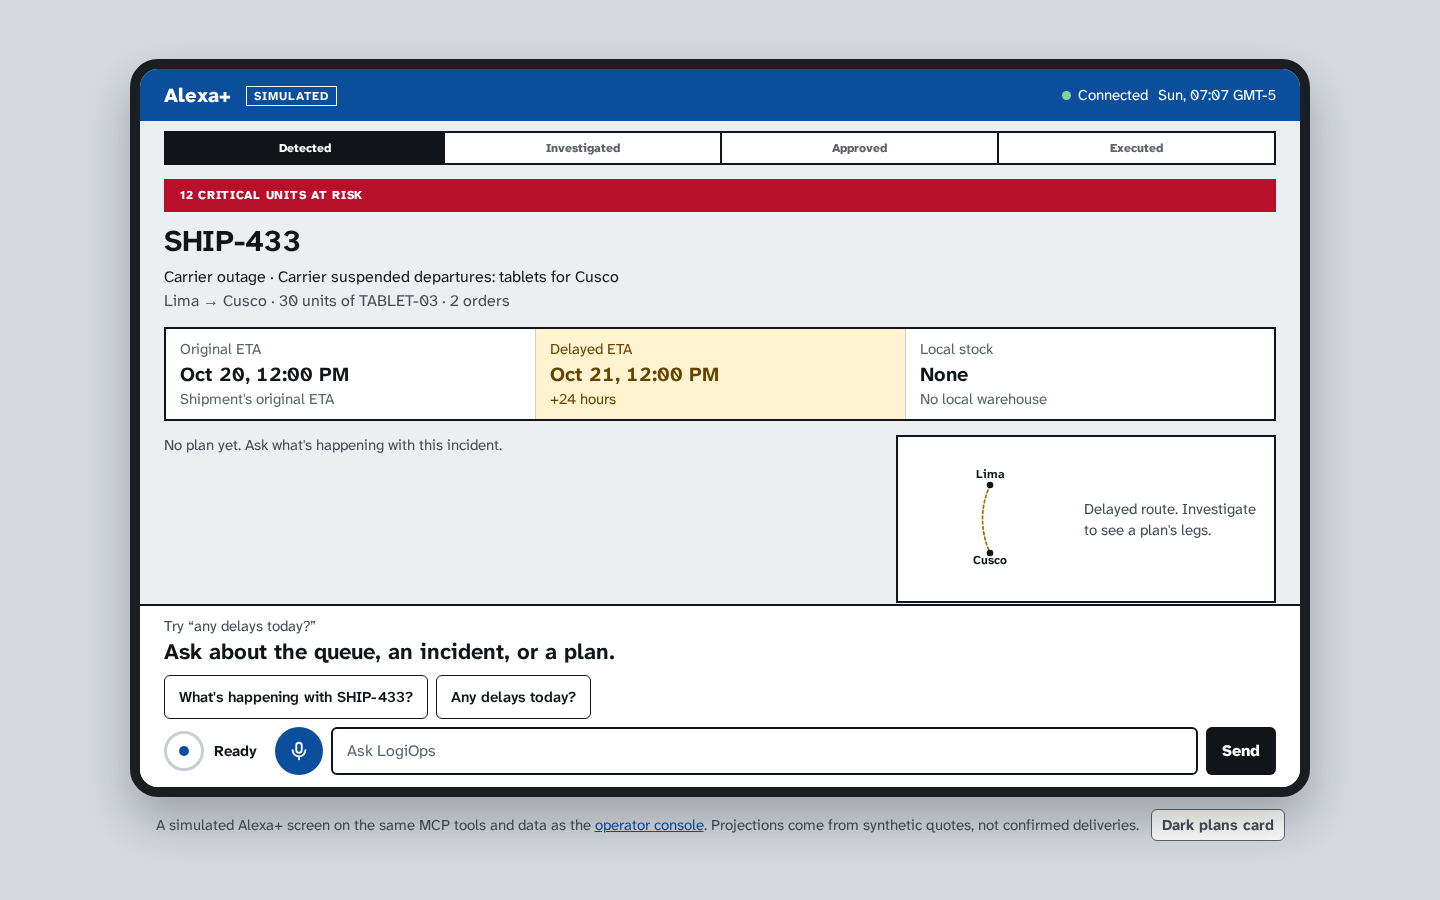
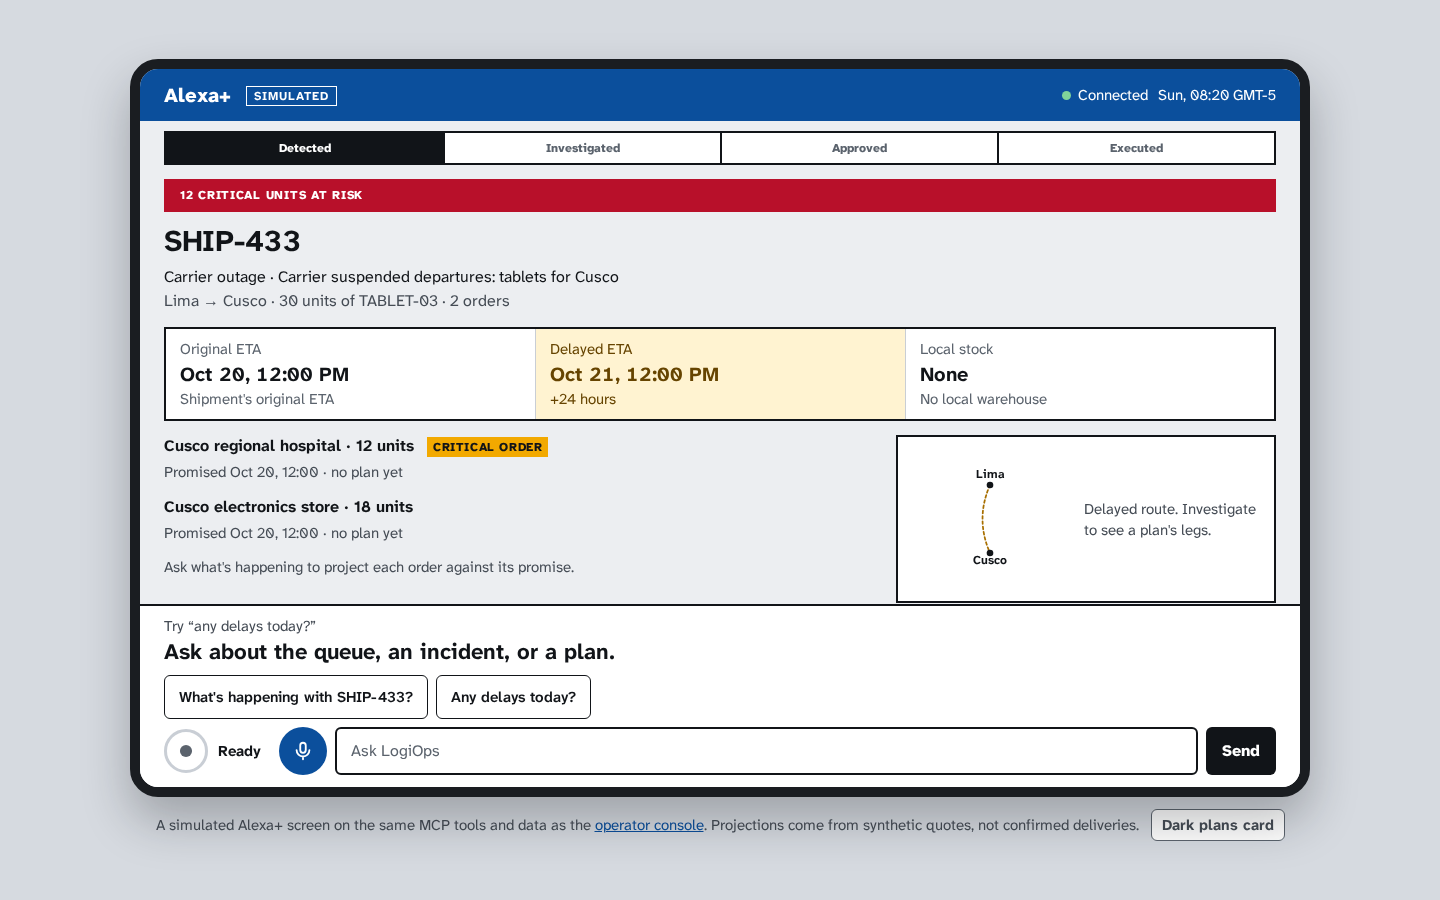
docs: refresh the screenshots and DESIGN.md after the third critique fixes
- docs/img is regenerated with scripts/screenshots.py: the two-column
  confirmation, the incident listing its orders before a plan, the
  result and the phone dock with its orb toggle and arrow Send.
- DESIGN.md is refreshed from the shipped code:
  - the orb as the "Read replies aloud" toggle and the dock line that
    expands in place;
  - the compact shell bar under 480px;
  - two-column labels from 900px;
  - orders before a plan;
  - the withdraw confirmation;
  - the execute action chip;
  - the honest alert lines;
  - the plain result heading;
  - the new forced-colour rules.

Changed region(s): [[0.125, 0.56, 0.4062, 0.6533], [0.125, 0.4667, 0.375, 0.5289], [0.125, 0.8089, 0.3125, 0.8711]]

diff --git a/DESIGN.md b/DESIGN.md
@@ -138,6 +138,10 @@ components:
     textColor: "{colors.shell-ink}"
     rounded: "{rounded.round}"
     size: "48px"
+  orb-toggle:
+    backgroundColor: "{colors.surface}"
+    rounded: "{rounded.round}"
+    size: "44px"
   chip:
     backgroundColor: "{colors.surface}"
     textColor: "{colors.ink}"
@@ -265,19 +269,19 @@ The world explicitly rejects the dark operations dashboard with a neon accent, a
 A cool, clinical neutral palette with one label-blue shell and three state colours that never decorate.
 
 ### Primary
-- **Label Blue** (shell): the device's shell bar, primary buttons (including "Execute approved plan"), the mic, the outline and text of action chips, selected plans, the start-here tag and agent-pick badge, the look-alike underline, links and the theme colour. It means "the product" or "act here", never a state.
+- **Label Blue** (shell): the device's shell bar, primary buttons (including "Execute approved plan"), the mic, the outline and text of action chips, the orb's core while replies are read aloud, selected plans, the start-here tag and agent-pick badge, the look-alike underline, links and the theme colour. It means "the product" or "act here", never a state.
 - **Deep Label Blue** (shell-deep): hover for primary buttons only, on the device, the console and the MCP App card's pick button.
 - **Blue Wash** (shell-tint): hover on incident cards and chips, the user's conversation turns, the current-plan line, the console boundary note.
 
 ### Secondary (state)
-- **Dispensed Green** (ok) with **Green Wash** (ok-tint): on time, executed, verified, done lifecycle steps, the outlined Executed tag, success messages.
-- **Alert Red** (late) with **Red Wash** (late-tint): late, critical units at risk, approval invalidated, errors, the active mic.
+- **Dispensed Green** (ok) with **Green Wash** (ok-tint): on time, executed, verified, done lifecycle steps, the outlined Executed tag, success messages, the alert's "Now" line when the new pick is on time.
+- **Alert Red** (late) with **Red Wash** (late-tint): late, critical units at risk, approval invalidated, errors, the active mic, the alert's "Now" line when the new pick is late.
 - **Caution Amber** (warn), **Amber Ink** (warn-ink) and **Amber Wash** (warn-tint): attention. Solid amber always carries ink text (the alerts bell, the critical tag, the warn band, the connecting dot); amber washes always carry amber ink (the delayed-ETA fact, preference notes, the MCP App fallback note).
 - **Signal Green** (signal-ok) and **Signal Rose** (signal-late): the connected and failed states of the 9px connection dot on the shell bar, light enough to read on Label Blue. They exist only on the shell; everywhere on label stock the full-strength green and red carry state.
 
 ### Neutral
 - **Ink** (ink): text, rules, the current lifecycle step, the send button, focus rings.
-- **Graphite** (ink-2) and **Slate** (ink-3): secondary and tertiary text, labels inside facts, muted metadata.
+- **Graphite** (ink-2) and **Slate** (ink-3): secondary and tertiary text, labels inside facts, muted metadata; Graphite carries the alert's "Was" line and Slate the orb's core while read-aloud is off.
 - **Hairline** (hairline): 1 px internal dividers between rows and facts, transcript turns, trace steps, the idle orb ring.
 - **Label Stock** (surface): every card, panel, control, the talk dock and the conversation sheet.
 - **Sunken** (sunken): secondary button hover, promise-bar track, code and table headers.
@@ -305,7 +309,7 @@ A cool, clinical neutral palette with one label-blue shell and three state colou
 - **Figure** (800, clamp(28px, 2.6vw, 34px), 1.05, tabular): the one dominant number on a confirmation, receipt or result card. The MCP App card's pick cost uses the same role, with tabular slashed-zero numerals.
 - **Title** (700, clamp(22px, 2.4vw, 30px), 1.15, -0.01em): the card heading on the device, the home heading ("4 open incidents") and the plans heading.
 - **Stat** (700, 20px, tabular): secondary numbers that sit below the one Figure: incident ids in queue cards (800), fact values, the session strip, plan figures, the result card's four execution numbers, and the conversation sheet heading.
-- **Spoken** (700, clamp(18px, 1.6vw, 22px), 1.3): the assistant's spoken line in the dock, clamped to two lines with a More button.
+- **Spoken** (700, clamp(18px, 1.6vw, 22px), 1.3): the assistant's spoken line in the dock, clamped to two lines with a More button; tapping the line expands it in place up to 38vh, and the next reply collapses it.
 - **Lead** (600, clamp(17px, 1.5vw, 20px), 1.4): the sentence under a card title, queue-card text from 768px, the result figure's label.
 - **Body** (400, 16px, 1.5): incident text, rows, plan names, transcript, the home greeting.
 - **Meta** (400, 15px): secondary lines, fact labels, legends, chips, trace summaries.
@@ -322,11 +326,11 @@ The console uses the same family and weights at its own fixed desk sizes, record
 
 ## Layout
 
-Mobile first. On a phone the device fills the viewport as a column: a 52px shell bar (safe-area aware), a four-step lifecycle strip with a 10px top margin, a scrolling card surface, and a fixed talk dock with a 2px ink top rule holding the heard line, the two-line spoken line, one horizontally scrolling row of chips, and the orb, 48px mic, field and send. Side gutters are 16px plus safe-area insets. One card shows at a time. Under 400px the lifecycle cells size to their content instead of splitting the width equally.
+Mobile first. On a phone the device fills the viewport as a column: a 52px shell bar (safe-area aware), a four-step lifecycle strip with a 10px top margin, a scrolling card surface, and a fixed talk dock with a 2px ink top rule holding the heard line, the two-line spoken line, one horizontally scrolling row of chips, and the 44px orb toggle, 48px mic, field and send. Side gutters are 16px plus safe-area insets. One card shows at a time. Under 480px an alerts bell shortens to "N alert(s)" and, while a bell shows, the connection keeps only its dot. Under 400px the lifecycle cells size to their content instead of splitting the width equally, and Send becomes a 48px arrow icon.
 
 Home is a stacked queue: a Title heading ("4 open incidents") and a one-line greeting, then an ordered list of incident cards, one column on phones 10px apart and two columns from 768px 12px apart, then the session strip of outcome stats (two columns on phones, wrapping 130px tiles from 768px).
 
-From 768px the gutter becomes 24px, facts sit in a three-column row, the incident sets its promise bars beside a route-map label column of up to 380px, the plan row becomes name, figures, select, and the result card's four stats go to four columns. From 1024px with a fine pointer the device becomes a 16:10 Echo Show at up to 1180px wide inside a 10px bezel with 28px corners, centred on Desk Grey with a stage note underneath that carries the console link and the "Dark plans card" developer toggle. Short landscape screens hide the lifecycle and heard line and clamp the spoken line to one.
+From 768px the gutter becomes 24px, facts sit in a three-column row, the incident sets its promise bars beside a route-map label column of up to 380px, the plan row becomes name, figures, select, and the result card's four stats go to four columns. From 900px wide, whatever the pointer, the confirmation, receipt, alert and result cards drop their width cap and become two-column labels: the decision column (heading, lead, figure, notes) on the left and the evidence column (rows, plan lines, stats) on the right, 32px apart; below 900px the two columns stack. From 1024px with a fine pointer the device becomes a 16:10 Echo Show at up to 1180px wide inside a 10px bezel with 28px corners, centred on Desk Grey with a stage note underneath that carries the console link and the "Dark plans card" developer toggle. Short landscape screens hide the lifecycle and heard line and clamp the spoken line to one.
 
 The console is a 1500px shell with 32px padding (16px under 650px): a four-column inbox (two under 1050px, one under 650px), a summary strip, and a 1.65 : 0.85 workbench that stacks under 1050px.
 
@@ -354,15 +358,15 @@ Firm, square-shouldered, heavy-weight text.
 - **Shape:** gently rounded (6px), 2px border, 48px tall on the device (44px on the console and inside the MCP App card unless compact).
 - **Primary:** Label Blue fill, white 800-weight text, 18px side padding. One per card: the "yes", or "Execute approved plan" in the plans header and on a receipt when the plan is approved but has not run.
 - **Hover / Focus:** primary deepens to Deep Label Blue; secondary and plan Select take the Sunken fill. Focus is a 3px ink outline at 2px offset (white on the shell bar, inset on the scrolling surface). Disabled drops to 45% opacity.
-- **Secondary:** label stock with a 2px ink border; used for No, Close, Select, More, "Open printable receipt", "See N more plans" and console actions.
-- **Send:** solid ink with white text, sitting at the end of the dock.
+- **Secondary:** label stock with a 2px ink border; used for No, Keep it, Close, Select, More, "Open printable receipt", "See N more plans" and console actions.
+- **Send:** solid ink with white text, sitting at the end of the dock; under 400px a 48px stroked SVG arrow replaces the word and the accessible name stays "Send".
 - **Mic:** 48px Label Blue circle with a stroked SVG microphone; turns Alert Red while listening.
 - **Quiet:** text-only Graphite, underline on hover, for secondary console actions.
 - **Stage toggle:** the "Dark plans card" developer switch in the desktop stage note, 32px, 1.5px slate outline, filled ink when pressed.
 
 ### Chips
 - **Question chips:** label stock, 1.5px ink border, 6px radius, 44px tall, Meta type at 600; one scrolling row in the dock, wrapping on the console. Hover shifts the border to Label Blue over Blue Wash.
-- **Action chips:** the chips that act rather than ask (approve the recommended plan, approve the new pick, book and pay) take a 2px Label Blue outline and Label Blue 800 text, so a tap that changes state never looks like a question.
+- **Action chips:** the chips that act rather than ask (approve the recommended plan, approve the new pick, book and pay, execute approved plan) take a 2px Label Blue outline and Label Blue 800 text, so a tap that changes state never looks like a question. While a plan is approved and not executed, "Execute approved plan" leads the chips on the plans card and on a receipt booked before execution, alongside the primary button.
 - **Outcome chips:** square, solid green or red, white uppercase tag type; one per order row ("on time", "+8 h late").
 - **Incident tags:** square uppercase tags, at most two per card: start here (blue), critical units at risk (red), critical order (amber with ink), and the investigated or approved state as words in a 1.5px slate outline. An executed incident shows only the Executed tag, a 1.5px green outline with green text, which outranks start here.
 - **Badges:** agent pick and zero delay in blue; "your preference" in Amber Wash with Amber Ink.
@@ -373,6 +377,8 @@ Firm, square-shouldered, heavy-weight text.
 - **Shadow Strategy:** none (see Elevation & Depth).
 - **Border:** 2px ink.
 - **Internal Padding:** 14 to 16px on the device (18px for queue cards from 768px), 24px for console panels (18px under 650px).
+- **Two-column labels:** from 900px wide the confirmation, receipt, alert and result cards split into a decision column and an evidence column under one band; below 900px they stack in that order.
+- **Confirmation card:** heading, the plan name as the lead, one Figure, then the rows and a slate note, with the primary yes and a secondary no. Approval ("Yes, approve" / "No"), payment and withdrawal ("Withdraw this approval?", "Yes, withdraw" / "Keep it") share it; a red band appears only when the plan leaves a critical order late.
 - **Queue cards:** whole-card buttons with the incident id at Stat size, up to two tags, the incident text and a meta line; hover takes Blue Wash.
 
 ### Inputs / Fields
@@ -381,7 +387,7 @@ Firm, square-shouldered, heavy-weight text.
 - **Checkboxes and radios:** native, 18 to 20px, accent Label Blue.
 
 ### Navigation
-- **Shell bar:** Label Blue, white text, 52px (44px in short landscape). The wordmark is 800 weight with an outlined uppercase "simulated" stamp. Right side: the amber alerts bell, the account button (outlined white, filled white when signed in), the connection state with a 9px dot (amber connecting, Signal Green connected, Signal Rose failed), and a tabular clock from 768px.
+- **Shell bar:** Label Blue, white text, 52px (44px in short landscape). The wordmark is 800 weight with an outlined uppercase "simulated" stamp. Right side: the amber alerts bell ("N alert(s) · incident", shortened to "N alert(s)" under 480px), the account button (outlined white, filled white when signed in), the connection state with a 9px dot (amber connecting, Signal Green connected, Signal Rose failed), and a tabular clock from 768px.
 - **Console top bar:** 68px, separated by a 2px ink rule, a square blue monogram mark and Label Blue text links.
 
 ### State Band (signature)
@@ -391,25 +397,25 @@ A strip at the top of a card, padded 8px 16px, uppercase tag type with 0.06em tr
 Detected, Investigated, Approved, Executed in four cells inside a 2px ink frame with 2px ink dividers, in 800-weight tag-size type. Done steps are Green Wash with green text, the current step is solid ink with white text, future steps are slate. It sits at the same place and scale on every incident.
 
 ### Look-Alike Guard (signature)
-Wherever plan names appear together (plan list, current-plan line, confirmation lead, alert plan lines, result heading, MCP App card), each name is compared word by word with its nearest neighbour. When two names share at least two words and at least half of the name without being identical, the words that differ are set in 800 weight with a 3px Label Blue underline offset 4px. Otherwise the name stands plain.
+Wherever plan names appear together (plan list, current-plan line, confirmation lead, alert plan lines, MCP App card), each name is compared word by word with its nearest neighbour. When two names share at least two words and at least half of the name without being identical, the words that differ are set in 800 weight with a 3px Label Blue underline offset 4px. Otherwise the name stands plain. The result heading names the executed plan alone and always stands plain.
 
 ### Facts and Promise Bars
-Incident facts are a stacked list (three columns from 768px) with label, a Stat-size tabular value and note; the delayed ETA fact is Amber Wash with Amber Ink. Each late order's promise is a 12px Sunken track with a 1px ink zero line, filled red in proportion to its delay, under the customer line and above a red verdict. On-time orders hide the empty track and keep only the green verdict.
+Incident facts are a stacked list (three columns from 768px) with label, a Stat-size tabular value and note; the delayed ETA fact is Amber Wash with Amber Ink. Each late order's promise is a 12px Sunken track with a 1px ink zero line, filled red in proportion to its delay, under the customer line and above a red verdict. On-time orders hide the empty track and keep only the green verdict. Before investigation each affected order is listed with its customer, units and critical-order tag over a Graphite "Promised … · no plan yet" verdict in regular weight, with no track. The amber critical-order tag never wraps.
 
-### Result and Receipt Cards
-The result card opens with the green "Executed · operationally verified" band, the plan name as the Title, and the incident as the lead. It then carries one Figure ("12 critical units on time", with the label at Lead size and a slate "projected"), followed by order rows that end in outcome chips. The four execution numbers (units accounted for, extra cost, notifications simulated, customer delay) follow as Stat-size secondary figures over hairline rules. The receipt shows the paid total as its Figure, then rows that start with the "Carriers and services" subtotal and indent its paid lines beneath it in slate Meta type without a rule, then fees, and a total row in 800 weight over a 2px ink rule.
+### Result, Receipt and Alert Cards
+The result card opens with the green "Executed · operationally verified" band, the plan name as the Title, and the incident as the lead. It then carries one Figure ("12 critical units on time", with the label at Lead size and a slate "projected"), followed by order rows that end in outcome chips. The four execution numbers (units accounted for, extra cost, notifications simulated, customer delay) follow as Stat-size secondary figures over hairline rules. The receipt shows the paid total as its Figure, then rows that start with the "Carriers and services" subtotal and indent its paid lines beneath it in slate Meta type without a rule, then fees, and a total row in 800 weight over a 2px ink rule. The alert card opens with an amber band (red once an approval is invalidated), a "Heads up on" Title and a one-line lead built from the change; its evidence column carries a Graphite "Was …" line above an 800-weight "Now …" line on Green Wash with green text when the new pick is on time, or on Red Wash with red text when it is late.
 
 ### Conversation Sheet
-A dialog inside the device: bottom-anchored with a 2px ink top rule on phones, a centred 2px-ink-framed panel up to 860px wide from 768px. Its heading is Stat size beside the read-aloud toggle and a secondary Close. Each assistant reply carries its own tool trace as a disclosure under it: a hairline rule, a 700 Meta summary, and square hairline step tiles (green for a skill, red for an error) that rise in on a 120ms stagger.
+A dialog inside the device: bottom-anchored with a 2px ink top rule on phones, a centred 2px-ink-framed panel up to 860px wide from 768px. Its heading is Stat size with a secondary Close beside it; the read-aloud checkbox sits on its own row beneath. Turns cap at min(92%, 72ch). Each assistant reply carries its own tool trace as a disclosure under it: a hairline rule, a 700 Meta summary, and square hairline step tiles (green for a skill, red for an error) that rise in on a 120ms stagger.
 
 ### MCP App Card
 The plan picker as an MCP App, self-contained (see The Self-Contained Card Rule). The pick leads with a green or red state band, the name at Lead size with up to two tags (agent or default pick outlined in blue, approved or executed outlined in green, your preference in Amber Wash), the cost as the Figure, order outcomes as chips, and a primary "Select for approval" button until a plan is approved. The remaining plans follow with the pick's nearest look-alike first; in compact mode only that one shows, with a "See N more plans" button for the rest. All figures use tabular slashed-zero numerals.
 
 ### Talk Dock and Orb
-The dock is label stock under a 2px ink rule. The orb is a 40px circle with a 3px hairline ring and a blue core that pulses while listening or speaking and spins its ring while thinking, on cubic-bezier(.16, 1, .3, 1). All motion stops under reduced motion.
+The dock is label stock under a 2px ink rule. The orb is a 44px circular button, the "Read replies aloud" toggle (pressed state exposed): a 3px hairline ring around a Label Blue core when on and a Slate core when off; it is disabled, showing the off core, where no voice exists. It still reports listening, thinking and speaking: the ring turns blue, the core pulses while listening or speaking and the ring spins while thinking, on cubic-bezier(.16, 1, .3, 1). All motion stops under reduced motion.
 
 ### Forced Colours
-Under forced colours the current lifecycle step takes Highlight with HighlightText, done steps are underlined, the promise fill becomes CanvasText, and state bands, outcome chips, incident tags and action chips gain a 1px system border so no state rides on colour alone.
+Under forced colours the current lifecycle step takes Highlight with HighlightText, done steps are underlined, the promise fill becomes CanvasText, state bands, outcome chips and incident tags gain a 1px CanvasText border, action chips thicken to a 3px border, Send and the mic gain a 1px ButtonText outline, and the route map's places, labels and legs draw in CanvasText, so no state rides on colour alone.
 
 ## Do's and Don'ts
 
